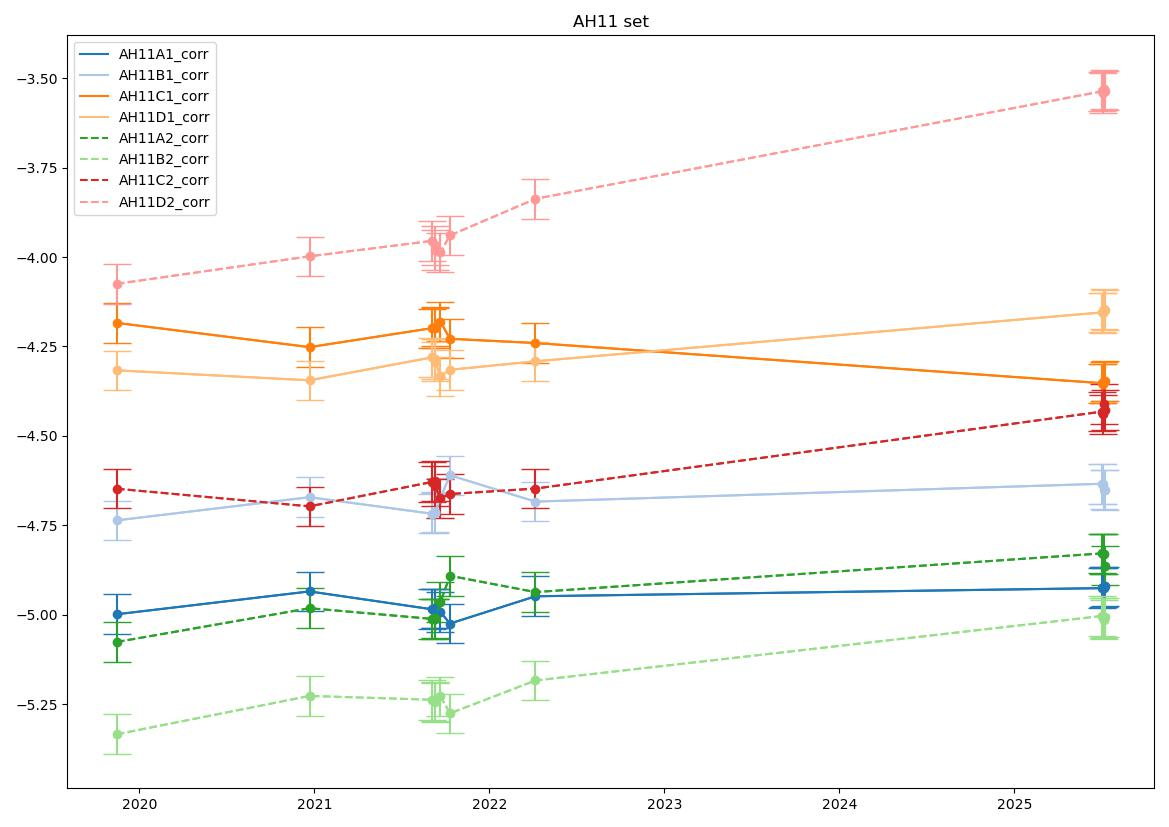
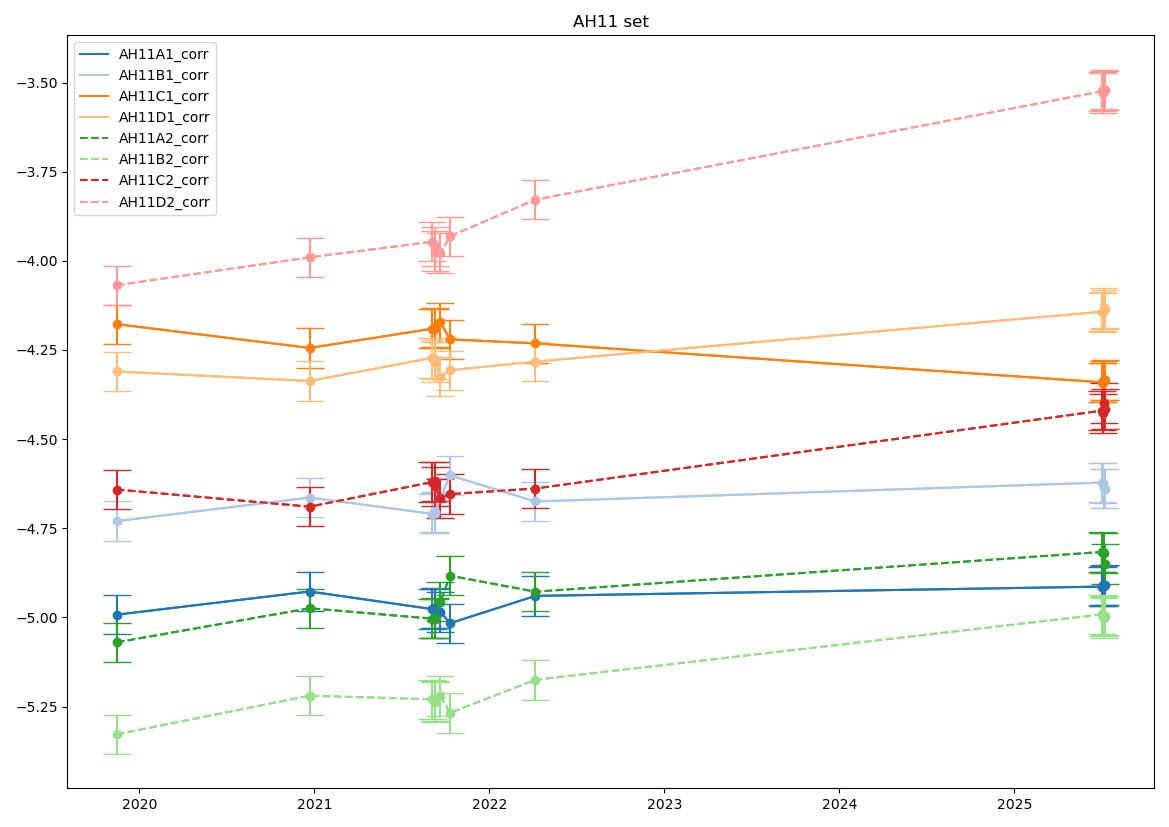
Latest external calibration values added.

diff --git a/constrained.py b/constrained.py
@@ -9,7 +9,7 @@ class REFERENCE():
 
         cap1 = [('Mar 19 2009', (9.999950922, 0.000000400, 50, 31.4)),
                 ('Jul 20 2019', (9.9999500, 0.000000550, 50, 27.0)),
-                ('Jul 21 2019', (9.9999501, 0.000000550, 50, 27.0))
+                ('Jul 31 2025', (9.9999513, 0.00000070, 50, 27.75))
                 ]
 
         coefficient1 = 0.003086584
@@ -19,7 +19,7 @@ class REFERENCE():
 
         cap2 = [('Mar 19 2009', (9.999953022, 0.000000400, 50, 31.4)),
                 ('Jul 20 2019', (9.9999526, 0.000000550, 50, 27.0)),
-                ('Jul 21 2019', (9.9999527, 0.000000550, 50, 27.0))
+                ('Jul 31 2025', (9.9999540, 0.00000070, 50, 27.75))
                 ]
 
         coefficient2 = 0.004026581
@@ -28,7 +28,7 @@ class REFERENCE():
 
         cap3 = [('Mar 19 2009', (99.999557221, 0.000004000, 50, 31.4)),
                 ('Jul 20 2019', (99.999580, 0.000005500, 50, 27.0)),
-                ('Jul 21 2019', (99.999581, 0.000005500, 50, 27.0))
+                ('Jul 31 2025', (99.999564, 0.0000070, 50, 27.75))
                 ]
 
         coefficient3 = -0.001883384
@@ -37,7 +37,7 @@ class REFERENCE():
 
         cap4 = [('Mar 19 2009', (99.999548221, 0.000004000, 50, 31.4)),
                 ('Jul 20 2019', (99.999567, 0.000005500, 50, 27.0)),
-                ('Jul 21 2019', (99.999568, 0.000005500, 50, 27.0))
+                ('Jul 31 2025', (99.999584, 0.0000070, 50, 27.75))
                 ]
 
         coefficient4 = -0.003210803

diff --git a/primcal.py b/primcal.py
@@ -175,7 +175,7 @@ if __name__ == '__main__':
 
     cap1 = [('Mar 19 2009', (9.999950922, 0.000000400, 50, 31.4)),
             ('Jul 20 2019', (9.9999500, 0.000000550, 50, 27.0)),
-            ('Jul 21 2019', (9.9999501, 0.000000550, 50, 27.0))
+            ('Jul 31 2025', (9.9999513, 0.00000070, 50, 27.75))
             ]
 
     coefficient1 = 0.003086584
@@ -185,7 +185,7 @@ if __name__ == '__main__':
 
     cap2 = [('Mar 19 2009', (9.999953022, 0.000000400, 50, 31.4)),
             ('Jul 20 2019', (9.9999526, 0.000000550, 50, 27.0)),
-            ('Jul 21 2019', (9.9999527, 0.000000550, 50, 27.0))
+            ('Jul 31 2025', (9.9999540, 0.00000070, 50, 27.75))
             ]
 
     coefficient2 = 0.004026581
@@ -194,7 +194,7 @@ if __name__ == '__main__':
 
     cap3 = [('Mar 19 2009', (99.999557221, 0.000004000, 50, 31.4)),
             ('Jul 20 2019', (99.999580, 0.000005500, 50, 27.0)),
-            ('Jul 21 2019', (99.999581, 0.000005500, 50, 27.0))
+            ('Jul 31 2025', (99.999564, 0.0000070, 50, 27.75))
             ]
 
     coefficient3 = -0.001883384
@@ -203,7 +203,7 @@ if __name__ == '__main__':
 
     cap4 = [('Mar 19 2009', (99.999548221, 0.000004000, 50, 31.4)),
             ('Jul 20 2019', (99.999567, 0.000005500, 50, 27.0)),
-            ('Jul 21 2019', (99.999568, 0.000005500, 50, 27.0))
+            ('Jul 31 2025', (99.999584, 0.0000070, 50, 27.75))
             ]
 
     coefficient4 = -0.003210803

diff --git a/constrain.py b/constrain.py
@@ -93,7 +93,7 @@ if __name__ == '__main__':
 
     cap1 = [('Mar 19 2009', (9.999950922, 0.000000400, 50, 31.4)),
             ('Jul 20 2019', (9.9999500, 0.000000550, 50, 27.0)),
-            ('Jul 21 2019', (9.9999501, 0.000000550, 50, 27.0))
+            ('Jul 31 2025', (9.9999513, 0.00000070, 50, 27.75))
             ]
 
     coefficient1 = 0.003086584
@@ -103,7 +103,7 @@ if __name__ == '__main__':
 
     cap2 = [('Mar 19 2009', (9.999953022, 0.000000400, 50, 31.4)),
             ('Jul 20 2019', (9.9999526, 0.000000550, 50, 27.0)),
-            ('Jul 21 2019', (9.9999527, 0.000000550, 50, 27.0))
+            ('Jul 31 2025', (9.9999540, 0.00000070, 50, 27.75))
             ]
 
     coefficient2 = 0.004026581
@@ -112,7 +112,7 @@ if __name__ == '__main__':
 
     cap3 = [('Mar 19 2009', (99.999557221, 0.000004000, 50, 31.4)),
             ('Jul 20 2019', (99.999580, 0.000005500, 50, 27.0)),
-            ('Jul 21 2019', (99.999581, 0.000005500, 50, 27.0))
+            ('Jul 31 2025', (99.999564, 0.0000070, 50, 27.75))
             ]
 
     coefficient3 = -0.001883384
@@ -121,7 +121,7 @@ if __name__ == '__main__':
 
     cap4 = [('Mar 19 2009', (99.999548221, 0.000004000, 50, 31.4)),
             ('Jul 20 2019', (99.999567, 0.000005500, 50, 27.0)),
-            ('Jul 21 2019', (99.999568, 0.000005500, 50, 27.0))
+            ('Jul 31 2025', (99.999584, 0.0000070, 50, 27.75))
             ]
 
     coefficient4 = -0.003210803
